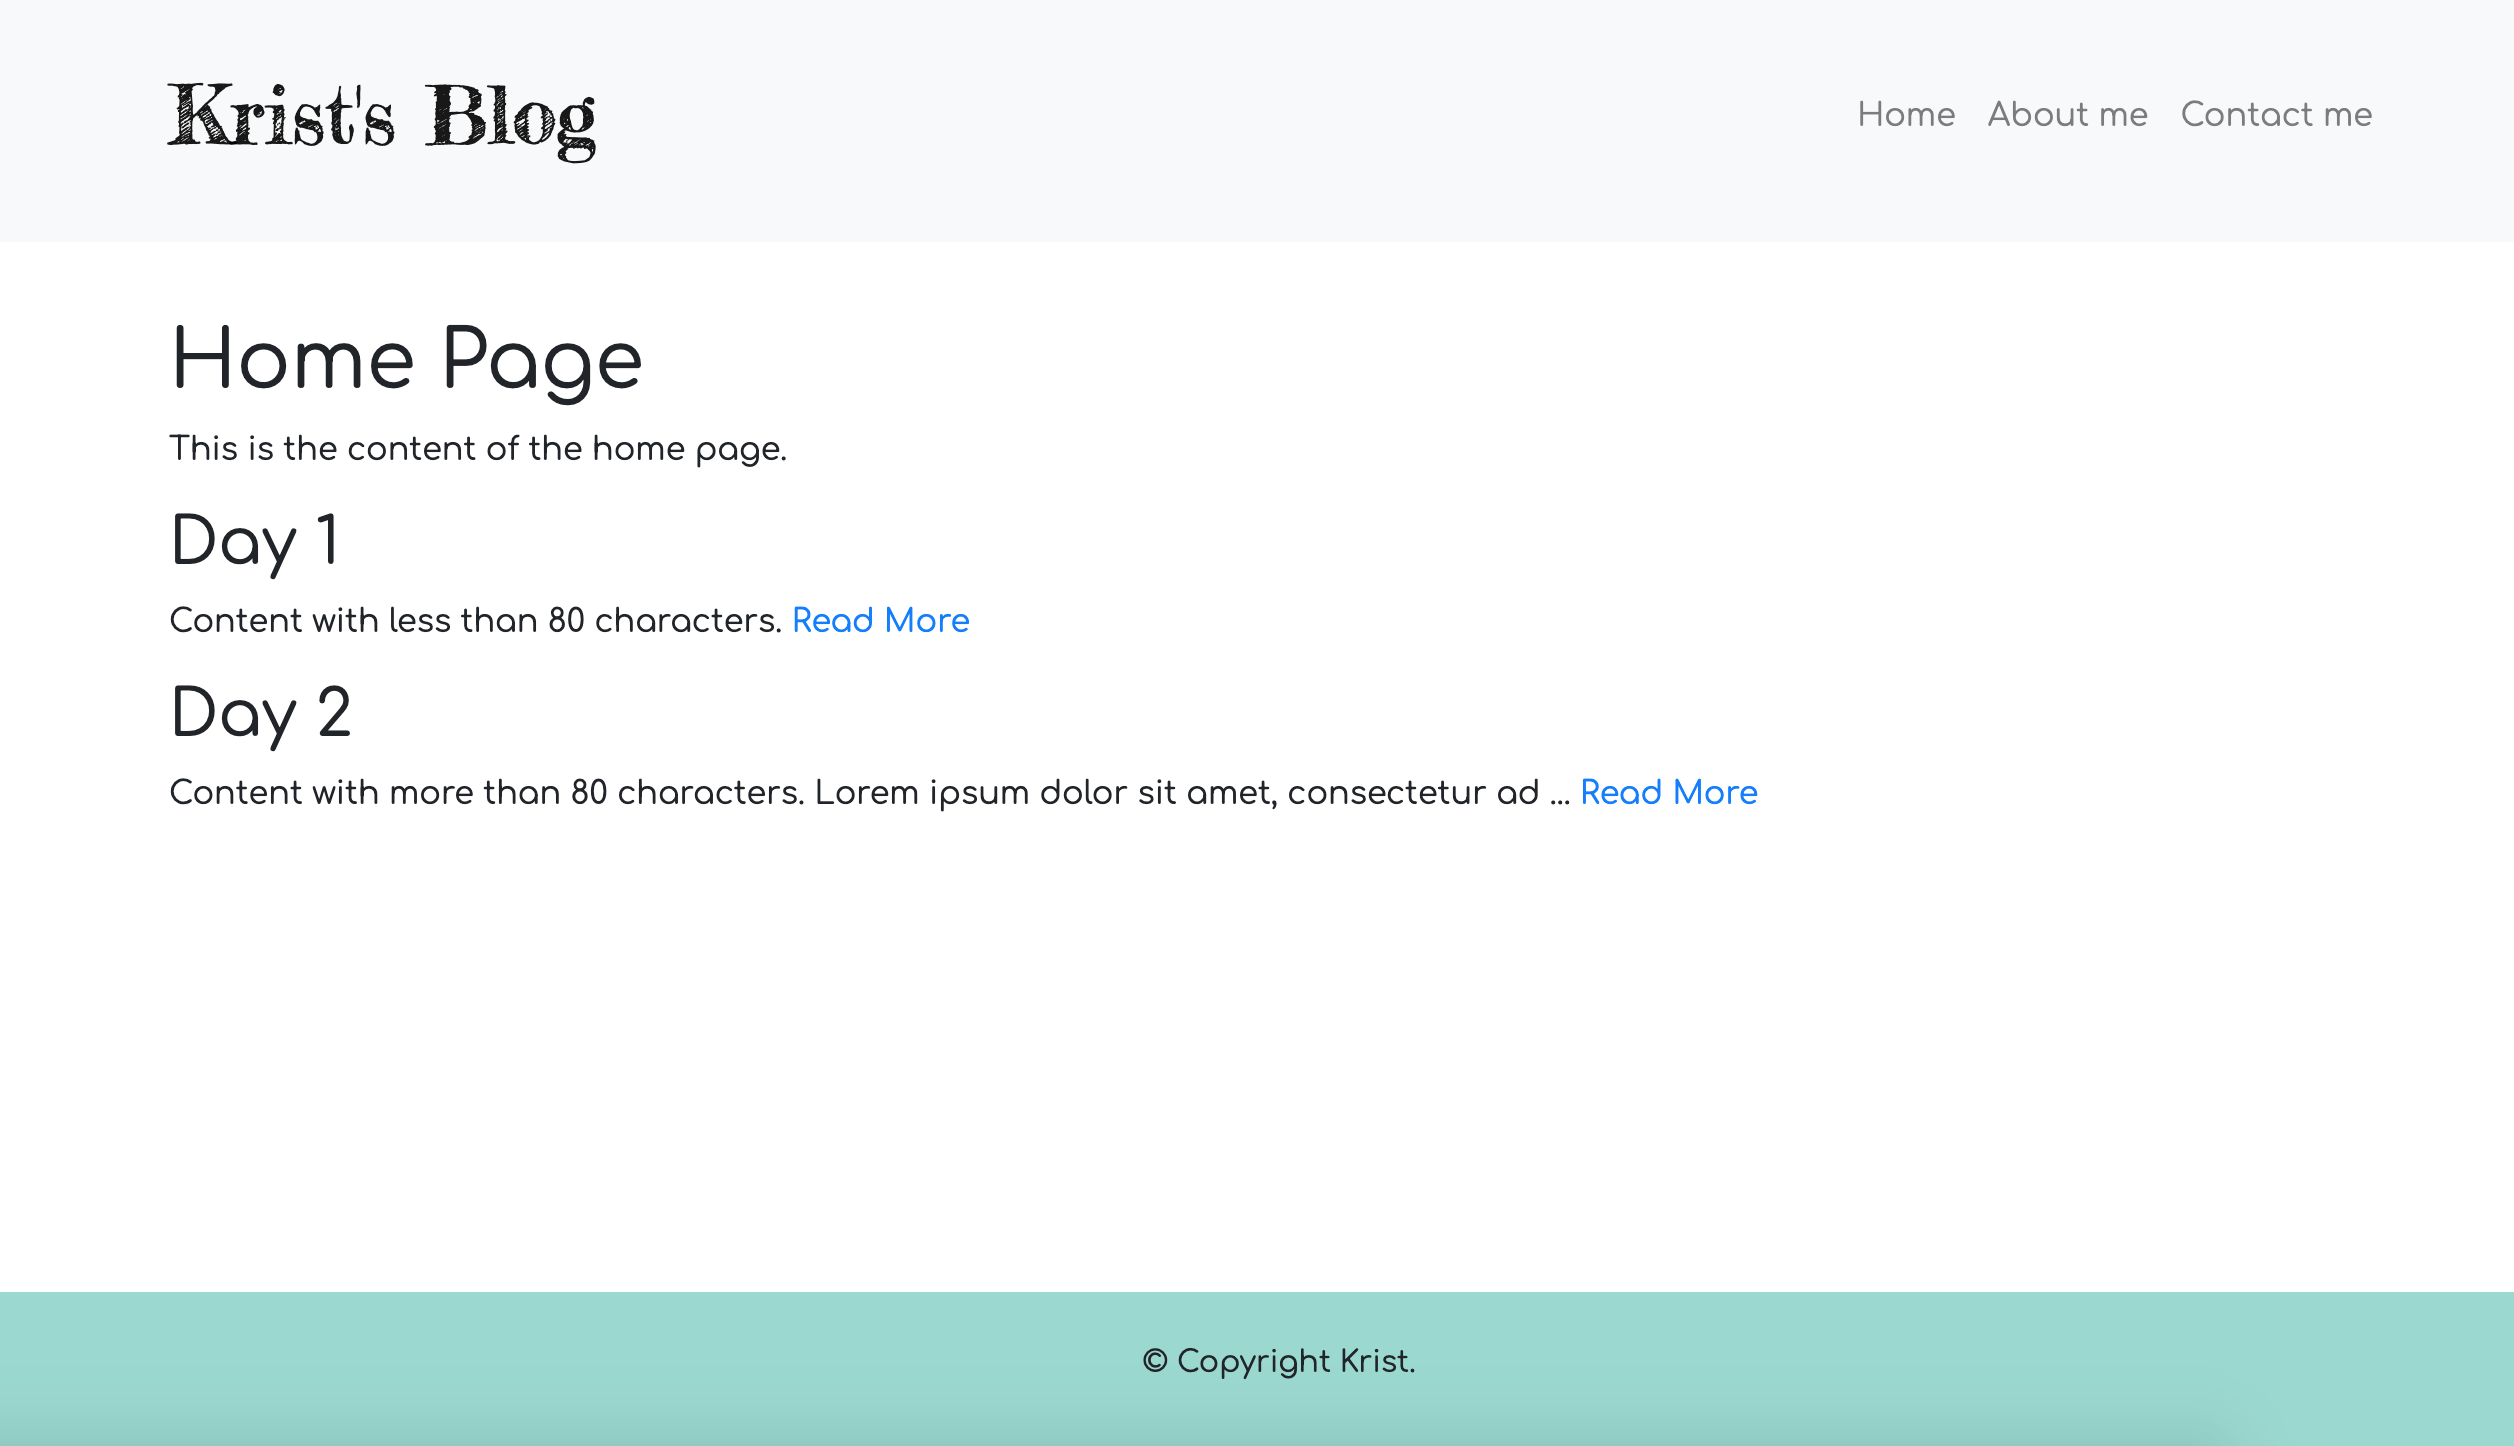
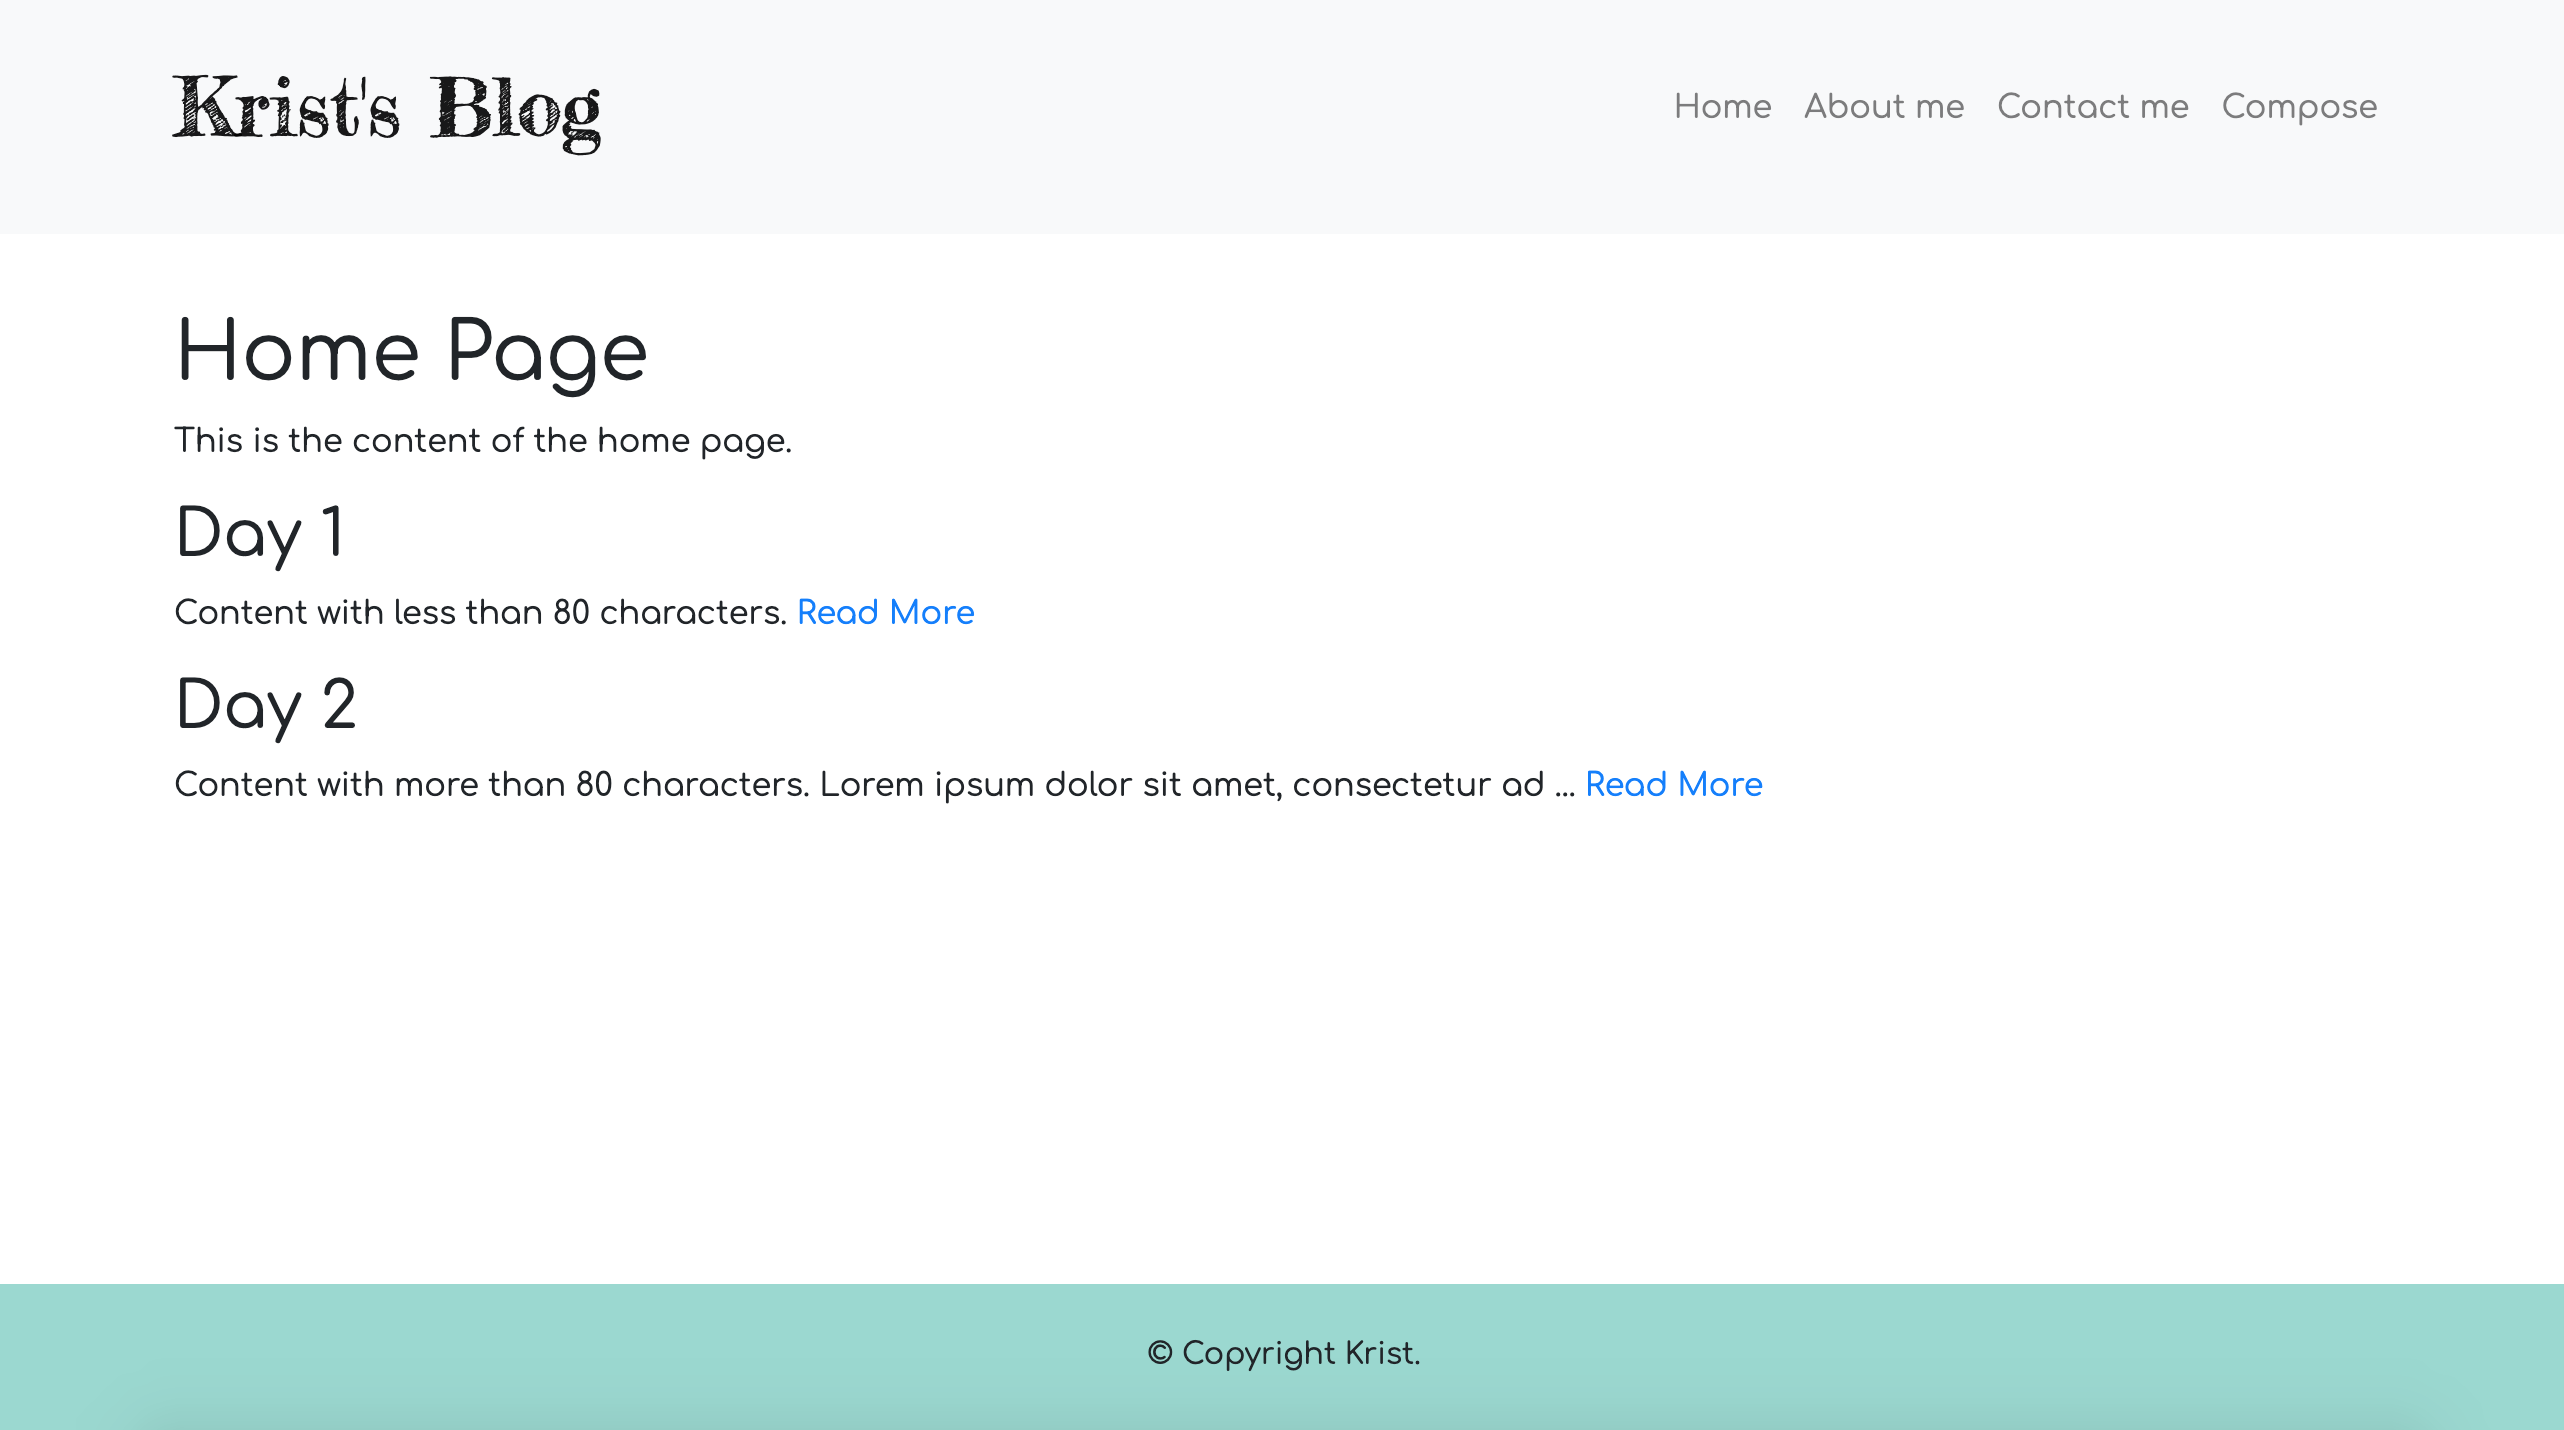
1. Implement MongoDB using Mongoose 2. Add "Compose" button in navigation bar 3. Update home page's screenshot

diff --git a/app.js b/app.js
@@ -3,63 +3,90 @@ const express = require("express");
 const bodyParser = require("body-parser");
 const ejs = require("ejs");
 const _ = require("lodash");
+const mongoose = require("mongoose");
 
 const app = express();
 app.set("view engine", "ejs");
 app.use(bodyParser.urlencoded({extended: true}));
 app.use(express.static("public"));
 
+const baseURL = "mongodb://localhost:27017";
+mongoose.connect(baseURL + "/blogDB", {
+  useNewUrlParser: true,
+  useUnifiedTopology: true
+});
+
+// set post schema
+const postSchema = new mongoose.Schema({
+  title: String,
+  content: String
+});
+
+// set post model
+const Post = mongoose.model("Post", postSchema);
+
+// default content for different pages
 var homeContent = "This is the content of the home page.";
 var aboutContent = "This is the content of the about page.";
 var contactContent = "This is the content of the contact page.";
 
-var posts = [];
-
+// get home page
 app.get("/", function(req, res) {
-  res.render("home", {
-    homeContent: homeContent,
-    posts: posts
+  Post.find({}, function(err, posts) {
+    if(err) {
+      console.log(err);
+    }
+    res.render("home", {
+      homeContent: homeContent,
+      posts: posts
+    });
   });
 });
 
+// get about page
 app.get("/about", function(req, res) {
   res.render("about", {aboutContent: aboutContent});
 });
 
+// get contact page
 app.get("/contact", function(req, res) {
   res.render("contact", {contactContent: contactContent});
 });
 
+// get compose page
 app.get("/compose", function(req, res) {
   res.render("compose");
 });
 
+// handle compose post request
 app.post("/compose", function(req, res) {
-  const newPost = {
+  const newPost = new Post({
     title: req.body.postTitle,
     content: req.body.postContent
-  };
-  posts.push(newPost);
-  res.redirect("/");
+  });
+  // save the new post
+  newPost.save(function(err) {
+    if(err) {
+      console.log(err);
+    }
+    res.redirect("/");
+  });
 });
 
-app.get("/posts/:postTitle", function(req, res) {
-  const postTitle = _.lowerCase(req.params.postTitle);
-  var find = false;
-  posts.forEach(function(post) {
-    const storedPostTitle = _.lowerCase(post.title);
-    if(storedPostTitle === postTitle) {
-      find = true;
+// get single post page
+app.get("/posts/:postId", function(req, res) {
+  const postId = req.params.postId;
+  Post.findOne({_id: postId}, function(err, post) {
+    if(err) {
+      console.log(err);
+    }
+    if(!post) {
+      res.render("404");
+    } else {
       res.render("post", {post: post});
     }
   });
-  if(!find) {
-    res.render("404");
-  }
-
 });
-
-
 
 app.listen(3000, function() {
   console.log("Server is running on port 3000");
